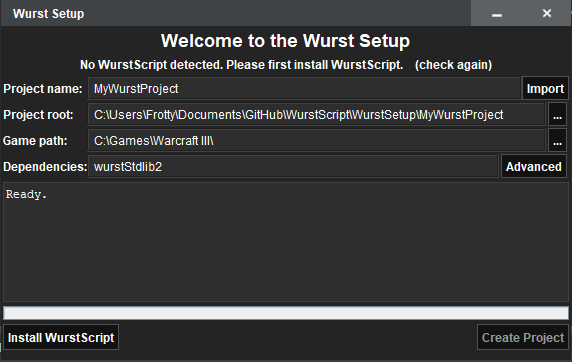
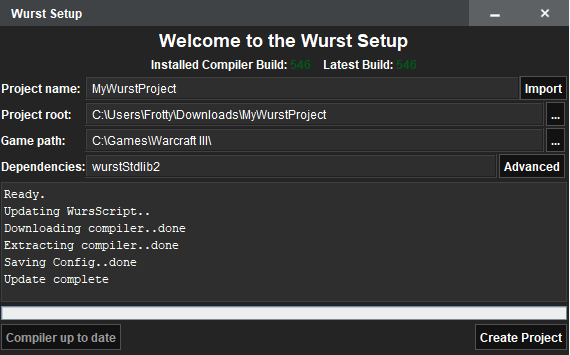
make links https, update setup image

Changed region(s): [[0.0, 0.0, 1.0, 1.0], [0.0, 0.5268, 0.3281, 0.8056], [0.0, 0.0, 0.1491, 0.062]]

diff --git a/_doc/manual/manual.md b/_doc/manual/manual.md
@@ -15,7 +15,7 @@ must be generated with the magic function `function error(string msg)`.
 # Standard Library
 
 Wurst comes with a library of some useful standard functions
-You can find the generated HotDoc pages here: [The Wurstscript Standardlibrary](http://peeeq.de/hudson/job/Wurst/HotDoc_Standard_Library_Documentation/index.html)
+You can find the generated HotDoc pages here: [The Wurstscript Standardlibrary](https://peeeq.de/hudson/job/Wurst/HotDoc_Standard_Library_Documentation/index.html)
 However, the best way to learn about the library is still to look at the source code.
 
 # Wurst Style
@@ -58,7 +58,7 @@ Example:
 ## Rule 2: Write checkable code
 
 Your code should be checkable by the compiler. The Wurst compiler provides you with some powerful typechecking tools. Use
-them wisely to reduce the mistakes you can do in your program. You might also want to watch [this awesome talk by Yaron Minsky](http://vimeo.com/14313378) who summarizes it pretty nicely: "make invalid state unrepresentable". Of course Wurst is not as sophisticated as ML
+them wisely to reduce the mistakes you can do in your program. You might also want to watch [this awesome talk by Yaron Minsky](https://vimeo.com/14313378) who summarizes it pretty nicely: "make invalid state unrepresentable". Of course Wurst is not as sophisticated as ML
 but there are still a lot of things you can do.
 
 - avoid the castTo expression whenever possible

diff --git a/_doc/manual/concepts_advanced.md b/_doc/manual/concepts_advanced.md
@@ -504,7 +504,7 @@ The standard library provides some functions to edit objects in compiletime func
 You can find the corresponding natives and higher level libraries in the objediting folder of the standard library.
 
 The package ObjEditingNatives contains natives to create and manipulate objects. If you are familiar with
-the object format of Wc3 and know similar tools like [Lua Object Generation](http://www.hiveworkshop.com/forums/jass-ai-scripts-tutorials-280/lua-object-generation-191740/)
+the object format of Wc3 and know similar tools like [Lua Object Generation](https://www.hiveworkshop.com/forums/jass-ai-scripts-tutorials-280/lua-object-generation-191740/)
 or the ObjectMerger from JNGP, you should have no problems in using them. If you run Wurst with compiletime functions enabled, it will generate
 the object creation code for all the objects in your map. This code is saved in files named similar to "WurstExportedObjects_w3a.wurst.txt" and
 can be found right next to your map file. You can use this code as a starting point if you want to use the natives.

diff --git a/_doc/contact/creators.md b/_doc/contact/creators.md
@@ -9,14 +9,14 @@ If you have any questions regarding Wurst-related tools or the language itself, 
 ![Frotty Avatar](https://avatars1.githubusercontent.com/u/1486037?v=4&s=460){: .img-rounded height="125px" width="125px"}
 
 [*&nbsp;*{: .fa .fa-external-link-square} Github](https://github.com/frotty)
-[*&nbsp;*{: .fa .fa-external-link-square} Hiveworkshop](http://www.hiveworkshop.com/forums/members/frotty/)
+[*&nbsp;*{: .fa .fa-external-link-square} Hiveworkshop](https://www.hiveworkshop.com/forums/members/frotty/)
 
 #### peq
 
 ![Peq Avatar](https://avatars1.githubusercontent.com/u/1071762?v=4&s=460){: .img-rounded height="125px" width="125px"}
 
 [*&nbsp;*{: .fa .fa-external-link-square} Github](https://github.com/peq)
-[*&nbsp;*{: .fa .fa-external-link-square} Hiveworkshop](http://www.hiveworkshop.com/forums/members/peq/)
+[*&nbsp;*{: .fa .fa-external-link-square} Hiveworkshop](https://www.hiveworkshop.com/forums/members/peq/)
 
 ---
 #### IRC

diff --git a/_doc/start/install_java.md b/_doc/start/install_java.md
@@ -9,7 +9,7 @@ WurstScript and it's related tools require Java 8 to run. Please install or veri
 
 ### Download JRE
 
-[*&nbsp;*{: .fa .fa-download} Download Java](http://www.oracle.com/technetwork/java/javase/downloads/jre8-downloads-2133155.html){: .btn .btn-orange} ![](/assets/images/setup/java_powered.png) 
+[*&nbsp;*{: .fa .fa-download} Download Java](https://www.oracle.com/technetwork/java/javase/downloads/jre8-downloads-2133155.html){: .btn .btn-orange} ![](/assets/images/setup/java_powered.png) 
 
 Download the Java Runtime appropriate for your system and follow the installation procedure.
 

diff --git a/_doc/start/install_wurst.md b/_doc/start/install_wurst.md
@@ -7,7 +7,7 @@ sections:
 
 Now we will setup a Wurst compiler environment and create a project using the the Wurst Setup.
 
-[*&nbsp;*{: .fa .fa-download} Download WurstSetup](http://peeeq.de/hudson/job/WurstSetup/lastSuccessfulBuild/artifact/downloads/WurstSetup.jar){: .btn .btn-green}
+[*&nbsp;*{: .fa .fa-download} Download WurstSetup](https://peeeq.de/hudson/job/WurstSetup/lastSuccessfulBuild/artifact/downloads/WurstSetup.jar){: .btn .btn-green}
 
 Once the download has finished, run the .jar to begin.
 
